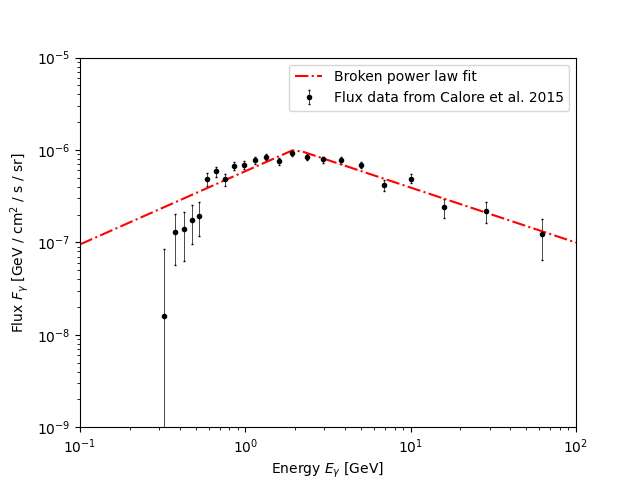
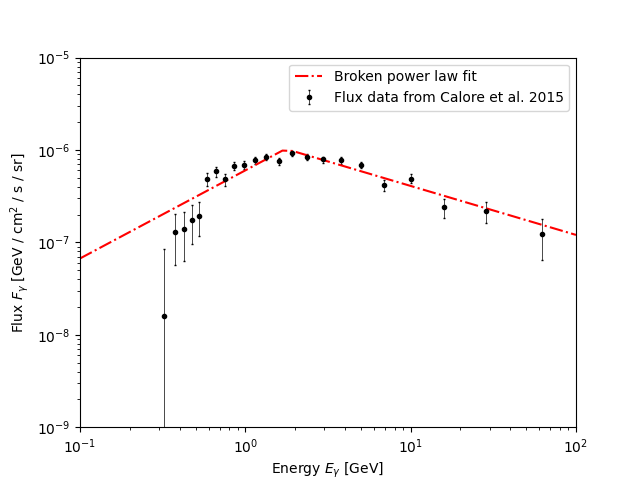
montecarlo sampling  + flux minor

diff --git a/Flux/flux.py b/Flux/flux.py
@@ -39,10 +39,9 @@ rc = 8.5           #kpc            #Earth-GC distance
 #solid angle integration
 options = {'epsabs': abs_err, 'epsrel' : rel_err, 'limit' : div_numb}
 #num = integrate.nquad(gNRW2, [[1.0e-6 , np.infty], [l_min, l_max], [b_min, b_max]] , args=(rs, g, rc), opts=options)
-i1 = integrate.quad(np.sin, b_min, b_max, epsabs = abs_err, epsrel = rel_err, limit=div_numb)
-i2 = integrate.quad(np.cos, l_min, l_max, epsabs = abs_err, epsrel = rel_err, limit=div_numb)
-ang_norm = 4*(b_max-b_min)*(np.cos(l_min)-np.cos(l_max))
-#energy integratio bound
+ang_norm = 2*(b_max-b_min)*(np.sin(l_max)-np.sin(l_min))
+print(ang_norm)
+#energy integration bound
 e_min = 0.1  #GeV
 e_max = 10   #GeV
 #****************************************************************
@@ -67,8 +66,10 @@ d = Data()
 
 #****************************************************************
 #Fit with a broken power law
-l = LeastSquares(d.emeans, d.flux, d.full_sigma, broken_pl_arr) 
-m = Minuit(l, 1.0e-6, 2.06, -0.6, 0.63, name=("F_0", "E_b", "n1", "n2" )) #following Dinsmore2022 notation
+l = LeastSquares(d.emeans, d.flux, d.full_sigma , broken_pl_arr) 
+m = Minuit(l, 1.0e-6, 2.06, -0.58, 0.63, name=("F_0", "E_b", "n1", "n2" )) #following Dinsmore2022 notation
+
+m.fixed["E_b", "n1", "n2"] = True
 
 m.migrad()
 m.hesse()
@@ -84,7 +85,7 @@ m.values[2], m.values[3] = m.values[2]-2 , m.values[3]-2  #go back to fit values
 #Calculation of the total flux
 I = log_scale_int(broken_pl, e_min, e_max, inf_approx, tuple(m.values), abs_err, rel_err, div_numb)
 #I = integrate.quad(broken_pl, e_min, e_max, args=tuple(m.values), epsabs = abs_err, epsrel = rel_err, limit=div_numb)
-print(I[0], "  ", I[1])
+#print(I[0], "  ", I[1])
 f.write('--------------------------------------------------------\n\n')
 fluxres1 =["Flux (in sr units): \nF_Omega =" , str(I[0]), " [GeV/cm^2/s/sr] = ", str(GeVtoerg(I[0])) , "[erg/cm^2/s/sr]", '\n']
 fluxres2 =["Flux: \nF =" , str(I[0]*ang_norm) , " [GeV/cm^2/s] = ", str(GeVtoerg(I[0])*ang_norm) , "[erg/cm^2/s]"]

diff --git a/tests/montecarlo_test.py b/tests/montecarlo_test.py
@@ -5,11 +5,11 @@ from datetime import timedelta
 import numpy as np
 import matplotlib.pyplot as plt
 import scipy.integrate as integrate
-from scipy.special import gammaincc
+from scipy.special import erf
 import os
 start_time = time.monotonic()
 
-exercise = 2
+exercise = 3
 marker_st =  '+'
 marker_color = 'orange'
 func_color = 'black'
@@ -68,6 +68,71 @@ elif exercise == 2:
     ax.scatter(Cos, Sin, color = marker_color, marker = marker_st)
 
     plt.savefig(os.path.join('sin_and_cos.png'))
+
+#**************************************************************
+#FUNCTION SAMPLING
+elif exercise == 3 :
+
+    x_max = 1.0
+    x_min = -x_max
+    draw = np.linspace(x_min, x_max, 10000)
+    n_bins = 100
+    sigma = 0.5
+    mu = 0.0
+
+    sample_dim = 100000
+
+    arg = () 
+    
+    def func_norm(x, func, arg, x_min, x_max):
+       i = integrate.quad(func, x_min, x_max, *arg, epsabs=0.0, epsrel=1.0e-6)[0]
+       return func(x, *arg) / i 
+    
+    def lim_gaussian(x , x0, sigma, x_min, x_max):
+       norm1 = 1.0 / sigma * (2.0 * np.pi)**0.5
+
+       return np.exp(-(x - x0)*(x - x0)/sigma/sigma/2) * norm1
+    
+    
+    def myfunc(x):
+      return -(x*x)+2
+    
+
+   
+    M = 1
+
+    temp = []
+
+    counter = 0 
+
+    while counter < sample_dim:
+       
+        u1 = rng.random()
+        u2 = rng.random()
+
+        y = sigma * (np.sin(2*np.pi*u1) * (-2 * np.log(u2))**0.5) + mu
+        u = rng.random()
+
+        discr = func_norm(y, myfunc, arg, x_min, x_max) / M / gaussian(y, mu, sigma)
+        if u < discr : 
+            temp.append(y)
+            counter += 1
+
+    x = np.array(temp)
+    print(x)
+
+
+ #plot
+
+fig, ax = plt.subplots()
+
+ax.plot(draw, func_norm(draw, myfunc, arg, x_min, x_max), color = "black", label = "function f(x)")
+#ax.plot (draw, gaussian(draw, mu, sigma))
+count, bins, ignored = ax.hist(x, n_bins, density=True)
+
+
+plt.legend()
+plt.savefig(os.path.join("function_sample.png"))
 
 
 end_time = time.monotonic()
